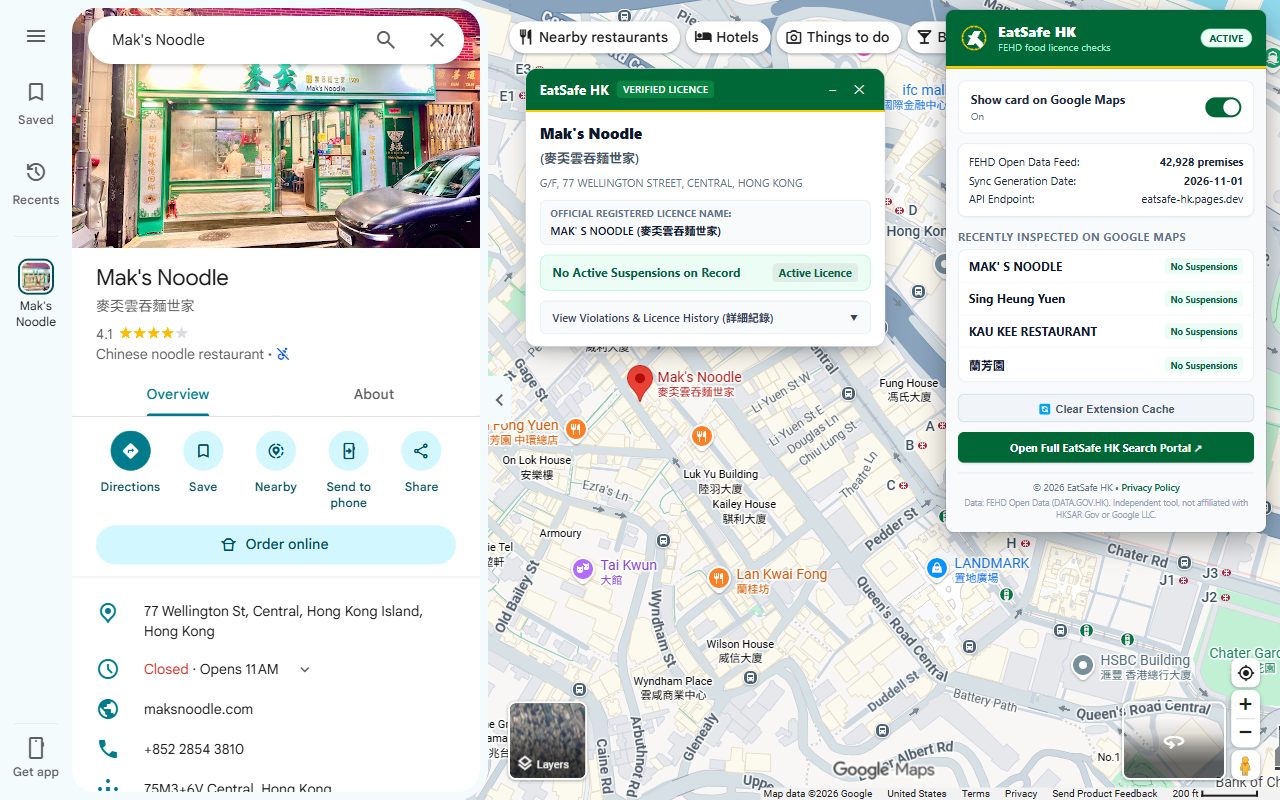
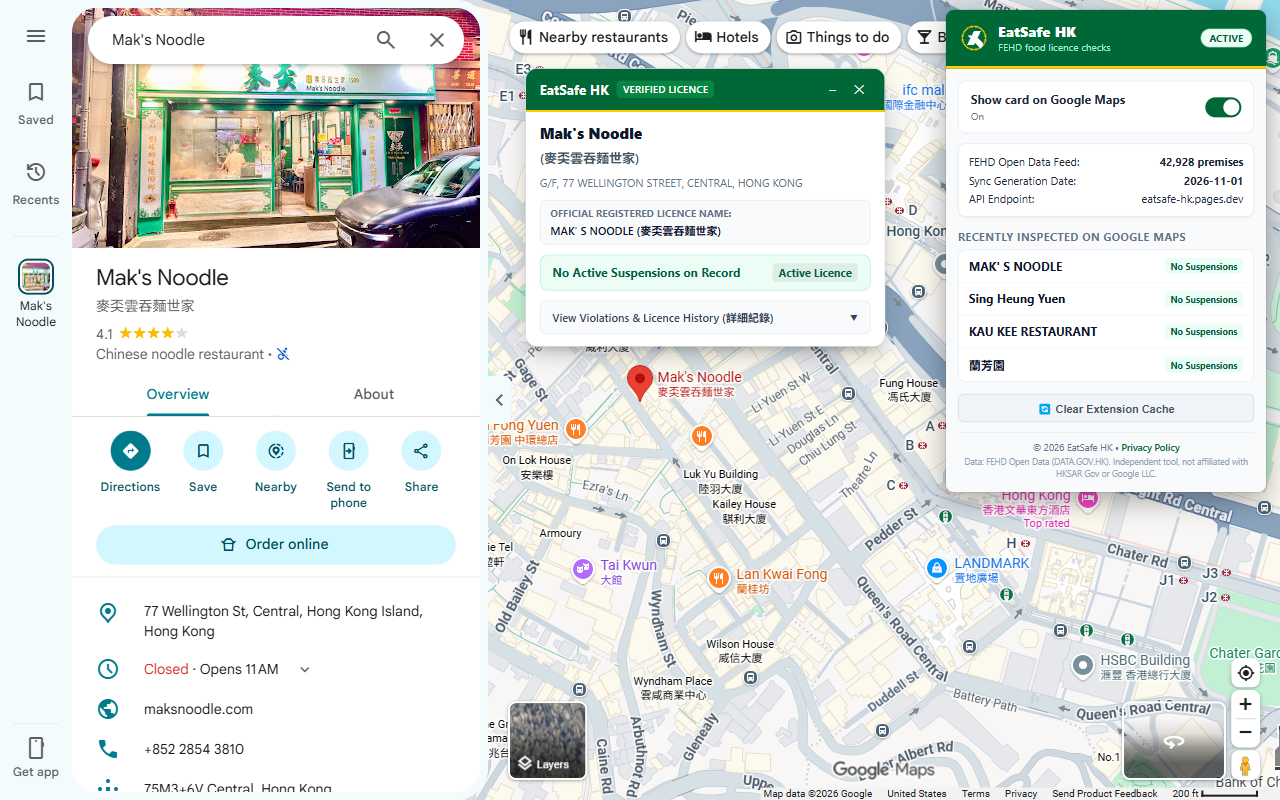
Remove the website link from the toolbar popup
The popup's "Open Full EatSafe HK Search Portal" button sent users to the
data-hosting website. The privacy policy link stays. Recapture screenshot 5.

Changed region(s): [[0.7188, 0.5312, 1.0, 0.6875]]

diff --git a/extension/popup.html b/extension/popup.html
@@ -52,10 +52,6 @@
       </button>
     </div>
 
-    <a href="https://eatsafe-hk.pages.dev" target="_blank" rel="noopener noreferrer" class="portal-btn">
-      Open Full EatSafe HK Search Portal ↗
-    </a>
-
     <footer class="popup-footer">
       <div>© 2026 EatSafe HK • <a href="https://eatsafe-hk.pages.dev/privacy" target="_blank" rel="noopener noreferrer">Privacy Policy</a></div>
       <div class="popup-disclaimer">Data: FEHD Open Data (DATA.GOV.HK). Independent tool, not affiliated with HKSAR Gov or Google LLC.</div>

diff --git a/extension/popup.css b/extension/popup.css
@@ -192,24 +192,6 @@ body {
   border-color: #94a3b8;
 }
 
-.portal-btn {
-  display: block;
-  text-align: center;
-  background: #006837;
-  color: #ffffff;
-  text-decoration: none;
-  font-weight: 700;
-  padding: 8px;
-  border-radius: 6px;
-  font-size: 11px;
-  box-shadow: 0 1px 2px rgba(0, 0, 0, 0.1);
-  transition: background 0.15s;
-}
-
-.portal-btn:hover {
-  background: #00522c;
-}
-
 .popup-footer {
   margin-top: 10px;
   padding-top: 8px;
